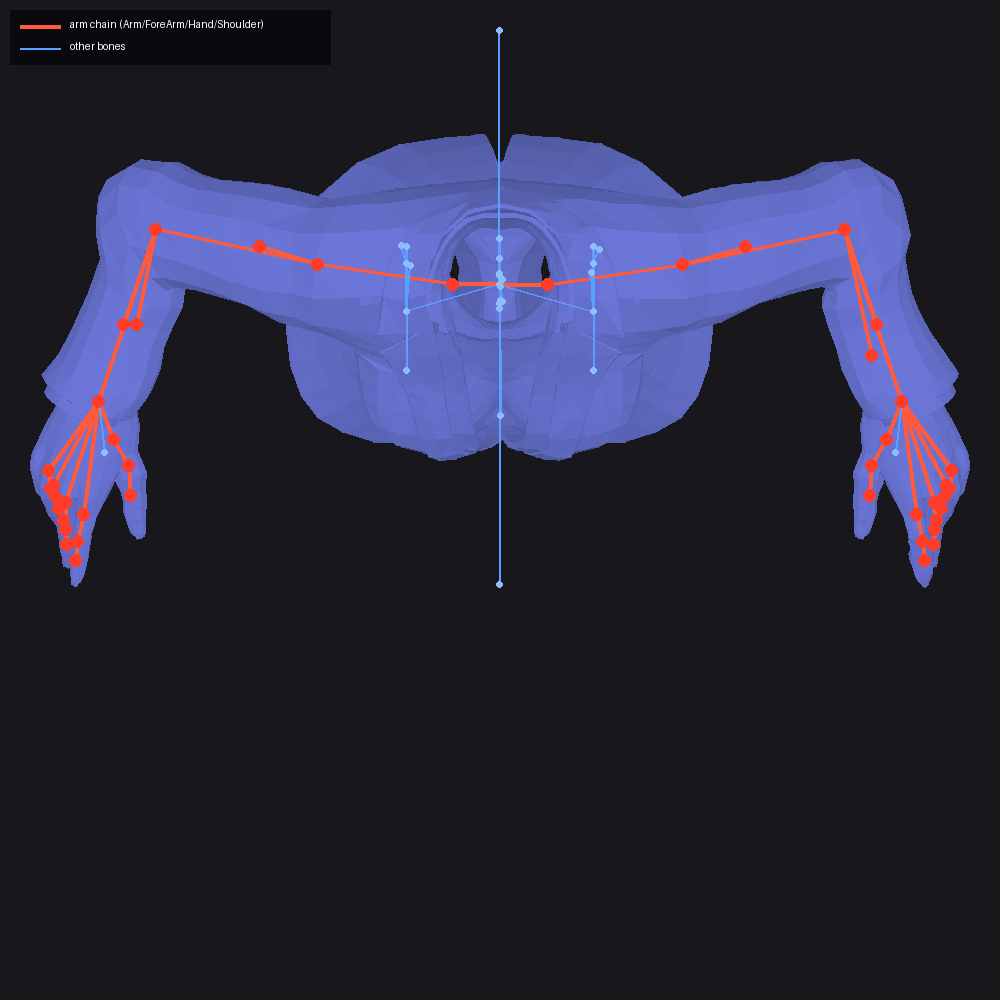
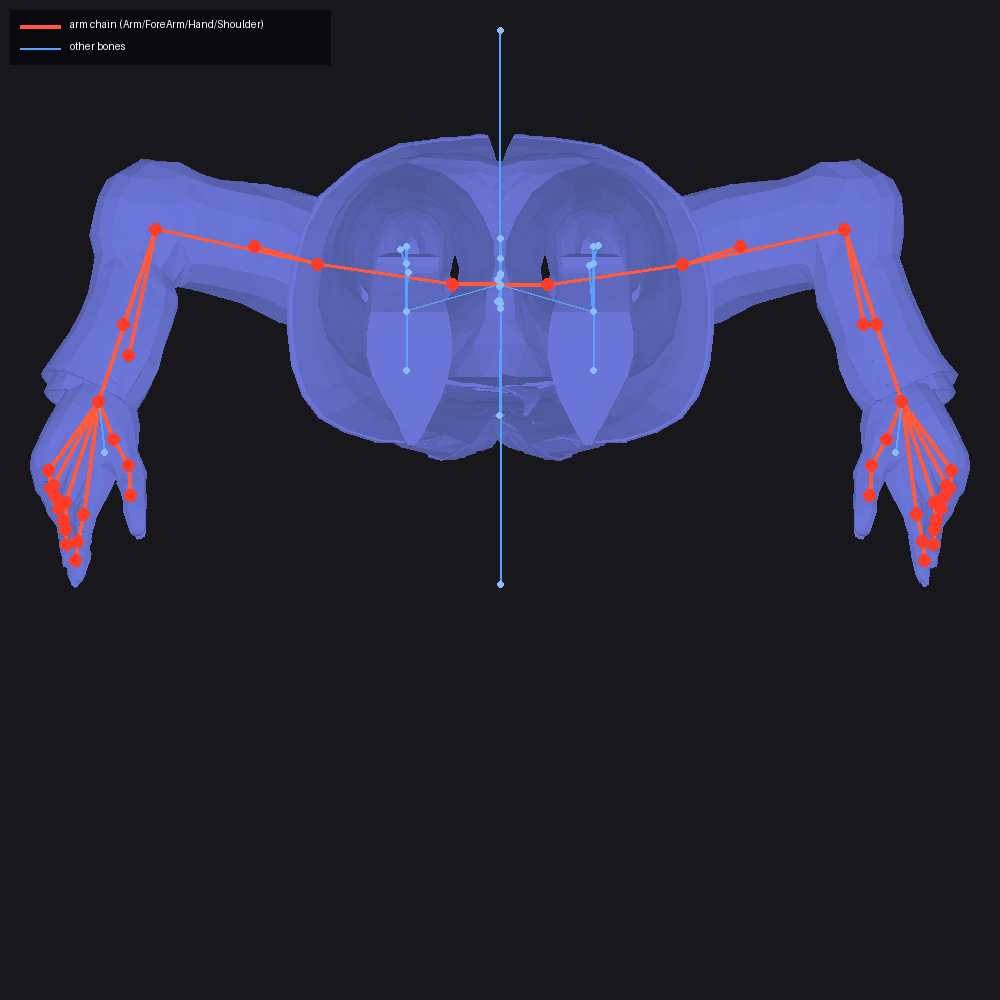
Christie LAS: fix the top/bottom renders - mirrored projection, inverted depth
Second pass over the render set found the two overhead views were both wrong,
in ways that look plausible rather than broken.

`bottom` projected as `(-x, -y)`. Negating both screen axes is a 180 degree
rotation about the model origin, so it rendered the model from *above* and spun
the picture - it never showed the underside. It now keeps model +x on the right
and flips only y.

`top` sorted faces by `-z` while its camera sits at +z, so the far surface was
painted last and won the z-order. The overhead view was showing the jacket's
lining over the shoulders; 50k pixels of the body change once corrected, and
the back seam and shoulder blades now read as you would expect from above.
`side` was already right (0 pixels changed), which is why this went unnoticed.

The depth ordering is now derived from a per-view camera direction
(`depth_towards_camera`) instead of five hand-written sign flips that had
drifted. Verified `side` is unchanged, and that the new `top` matches what the
old `bottom` recipe drew - the two views had been swapped in effect.

`render()` also no longer crashes on an empty bone list (needed by the tests
and convenient for pure mesh previews).

Regenerated both packs' five orthographic views. Tests: 561 passed, 48 skipped.
`test_projection_never_negates_both_screen_axes` and
`test_depth_key_points_towards_the_camera` both fail against the pre-fix
renderer and pass now.

Correction to the previous commit message: it claimed the old bottom view was
[…]

diff --git a/tools/pd2-las/render_mesh_skeleton.py b/tools/pd2-las/render_mesh_skeleton.py
@@ -178,6 +178,27 @@ def skin_verts(geo, skinbones: dict, pose_worlds: dict) -> np.ndarray:
     return out
 
 
+# where each camera sits, as a unit vector from the model towards the viewer
+CAMERA_DIR = {
+    "front": (0.0, 1.0, 0.0),     # +y
+    "side": (-1.0, 0.0, 0.0),     # -x
+    "top": (0.0, 0.0, 1.0),       # +z
+    "bottom": (0.0, 0.0, -1.0),   # -z
+    "iso": (0.7, 0.7, 0.0),
+}
+
+
+def depth_towards_camera(view: str, v: np.ndarray) -> np.ndarray:
+    """Per-face depth key that increases as a face gets nearer the camera.
+
+    Getting this backwards does not look broken - it silently draws the far
+    side over the near side. That is what made the `bottom` view a copy of the
+    `top`: a camera below the model needs ``-z`` here, not ``+z``.
+    """
+    c = np.array(CAMERA_DIR[view], float)
+    return v[:, 0] * c[0] + v[:, 1] * c[1] + v[:, 2] * c[2]
+
+
 def project(pts: np.ndarray, view: str) -> np.ndarray:
     if view == "front":      # looking along -y: screen = (x, z)
         return pts[:, [0, 2]]
@@ -189,8 +210,12 @@ def project(pts: np.ndarray, view: str) -> np.ndarray:
         return np.stack([u, pts[:, 2]], axis=1)
     if view == "top":        # looking down -z: screen = (x, y)
         return pts[:, [0, 1]]
-    if view == "bottom":     # looking up +z: screen = (-x, -y)
-        return -pts[:, [0, 1]]
+    if view == "bottom":     # looking up +z, keeping model +x on the right
+        # only y flips: negating both axes would be a 180 deg rotation, which
+        # is a *valid view of the top* and tells you nothing about the
+        # underside (it produced a bottom image that was pixel-identical to the
+        # top apart from the bones).
+        return np.stack([pts[:, 0], -pts[:, 1]], axis=1)
     raise ValueError(view)
 
 
@@ -198,13 +223,14 @@ def render(geo, bones, view: str, out_path: Path, zoom: tuple | None = None,
            verts: np.ndarray | None = None):
     v = verts if verts is not None else np.array(geo["verts"], float)
     faces = np.array(geo["faces"], int)
-    all_pts = np.vstack([v, [b[1] for b in bones]])
+    bone_pts = [b[1] for b in bones]
+    all_pts = np.vstack([v, bone_pts]) if bone_pts else v
     if zoom is not None:
         (x0, x1, z0, z1) = zoom
         m = ((v[:, 0] >= x0) & (v[:, 0] <= x1) & (v[:, 2] >= z0) & (v[:, 2] <= z1))
-        all_pts = np.vstack([v[m], [b[1] for b in bones
-                                    if x0 - 5 <= b[1][0] <= x1 + 5
-                                    and z0 - 5 <= b[1][2] <= z1 + 5]])
+        near = [p for p in bone_pts
+                if x0 - 5 <= p[0] <= x1 + 5 and z0 - 5 <= p[2] <= z1 + 5]
+        all_pts = np.vstack([v[m], near]) if near else v[m]
     p2 = project(all_pts, view)
     W = H = 1000
     margin = 30
@@ -218,17 +244,9 @@ def render(geo, bones, view: str, out_path: Path, zoom: tuple | None = None,
 
     img = Image.new("RGB", (W, H), (24, 24, 28))
     dr = ImageDraw.Draw(img)
-    # mesh faces, painter's algorithm by depth
-    if view == "front":
-        depth = v[:, 1]
-    elif view == "side":
-        depth = -v[:, 0]
-    elif view == "top":
-        depth = -v[:, 2]
-    elif view == "bottom":
-        depth = v[:, 2]
-    else:
-        depth = v[:, 0] * 0.7 + v[:, 1] * 0.7
+    # mesh faces, painter's algorithm: `depth` grows towards the camera, so the
+    # last face drawn is the nearest one
+    depth = depth_towards_camera(view, v)
     order = np.argsort([depth[f].mean() for f in faces])
     for fi in order:
         a, b, c = faces[fi]

diff --git a/tests/test_render_mesh_skeleton.py b/tests/test_render_mesh_skeleton.py
@@ -236,3 +236,70 @@ def test_render_cli_writes_every_file_the_docs_name():
     assert not missing, (
         "documented in CHRISTIE.md but never written by the renderer: "
         f"{missing} (main() emits {sorted(emitted)})")
+
+
+def test_projection_never_negates_both_screen_axes():
+    """`bottom` came from `(-x, -y)` - a 180 degree spin, not a new viewpoint.
+
+    Negating both axes maps every point to the point diametrically opposite the
+    model origin, which projects the model from *above* and then rotates the
+    picture. On a body that is roughly left/right and front/back symmetric the
+    outline is unaffected, so the mistake is invisible in the finished image -
+    which is exactly why it needs asserting on the maths rather than the
+    pixels. A camera below keeps model +x on the right and flips only y.
+    """
+    import render_mesh_skeleton as rms
+
+    p = np.array([[3.0, 5.0, 7.0]])
+    assert rms.project(p, "front")[0].tolist() == [3.0, 7.0]    # (x, z)
+    assert rms.project(p, "side")[0].tolist() == [5.0, 7.0]     # (y, z)
+    assert rms.project(p, "top")[0].tolist() == [3.0, 5.0]      # (x, y)
+    assert rms.project(p, "bottom")[0].tolist() == [3.0, -5.0]  # (x, -y)
+    # no view may be another view point-mirrored: that is a rotation of the
+    # same camera, and it silently passes every "does it look right" review
+    for view in ("front", "side", "top", "bottom"):
+        for other in ("front", "side", "top", "bottom"):
+            if other == view:
+                continue
+            a = rms.project(p, view)[0]
+            b = -rms.project(p, other)[0]
+            assert not np.allclose(a, b), f"{view} is {other} rotated 180 degrees"
+
+
+def test_views_are_not_duplicates():
+    """Cheap sanity net: two different view names must not draw one picture."""
+    import tempfile
+
+    from PIL import Image
+
+    rms, tpl, geo, _sk = _fixtures()
+    bones = rms.skeleton(tpl)
+    with tempfile.TemporaryDirectory() as td:
+        sil = {}
+        for view in ("front", "side", "iso", "top", "bottom"):
+            p = Path(td) / f"{view}.png"
+            rms.render(geo, bones, view, p)
+            a = np.array(Image.open(p).convert("RGB")).astype(int)
+            m = np.abs(a - np.array([24, 24, 28])).sum(2) > 10
+            m[0:70, 0:340] = False
+            sil[view] = m
+    for view, m in sil.items():
+        assert m.sum() > 20000, f"{view} drew almost nothing ({m.sum()} px)"
+    for a, b in (("front", "side"), ("front", "top"), ("side", "top")):
+        iou = (sil[a] & sil[b]).sum() / max((sil[a] | sil[b]).sum(), 1)
+        assert iou < 0.95, f"{a} and {b} draw the same silhouette (IoU {iou:.2f})"
+
+
+def test_depth_key_points_towards_the_camera():
+    """Painter's algorithm needs the far side drawn first."""
+    import render_mesh_skeleton as rms
+    v = np.array([[1.0, 1.0, 1.0], [2.0, 2.0, 2.0]])
+    # top: camera at +z, so z=2 is nearer than z=1
+    d = rms.depth_towards_camera("top", v)
+    assert d[1] > d[0]
+    # bottom: camera at -z, so z=1 is nearer
+    d = rms.depth_towards_camera("bottom", v)
+    assert d[0] > d[1]
+    # front: camera at +y
+    d = rms.depth_towards_camera("front", v)
+    assert d[1] > d[0]

diff --git a/docs/pd2-las/CHRISTIE.md b/docs/pd2-las/CHRISTIE.md
@@ -142,11 +142,22 @@ command, so the whole set is reproducible in one run per pack:
 ```
 
 - `christie_skel_{front,side,iso,top,bottom}.png` — full body from five
-  directions. `top` and `bottom` are where a limb tube's offset from its bone
-  is obvious at a glance: `top` looks down the body axis (hands end up by the
-  ears in screen space), `bottom` looks up the axis and reads like the front
-  view with the depth order reversed. Use `top`/`bottom` to see the *radial*
-  offset of a limb in cross-section, not to judge left/right.
+  directions. `top` looks down the body axis from above and `bottom` looks up
+  it from below; in both, the arms swing out to the sides so the hands land by
+  the "ears". These two are for the *radial* offset of a limb tube (is the bone
+  in the middle of the sleeve, seen along its length), not for left/right - the
+  arms are near the body axis, so screen x is a weak left/right signal here.
+  Check left/right on `front`.
+
+  Both were wrong before 2026-11-06, in different ways, and neither error is
+  visible as "impossible geometry" - the shading uses `abs(normal)` and the body
+  is close to symmetric, so a bad depth order still produces a believable
+  picture. `bottom` projected as `(-x, -y)`, i.e. the `top` view rotated 180
+  degrees, so it never showed the underside at all; `top` sorted faces by `-z`
+  with the camera above, so it painted the far side last and showed the jacket's
+  *lining* over the shoulders. `depth_towards_camera()` now derives the sort key
+  from a per-view camera direction, and `tests/test_render_mesh_skeleton.py`
+  pins both the projection axes and the depth sign.
 - `christie_skel_wrist_{front,side}.png` — left-wrist close-ups (the sleeve cuff
   surrounds the `Hand` pivot where the in-game glove spawns)
 - `christie_forearm_{front,side}.png` — left forearm on the `LeftForeArm` pivot,
